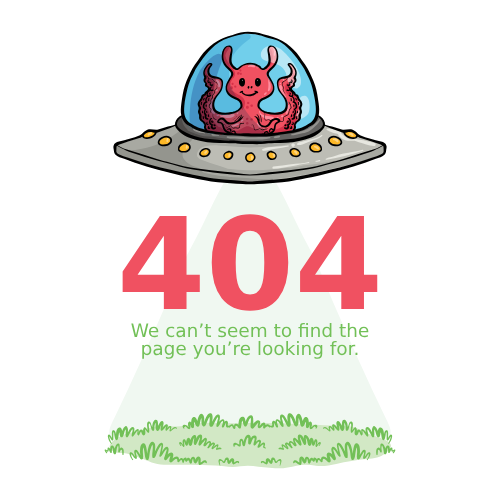
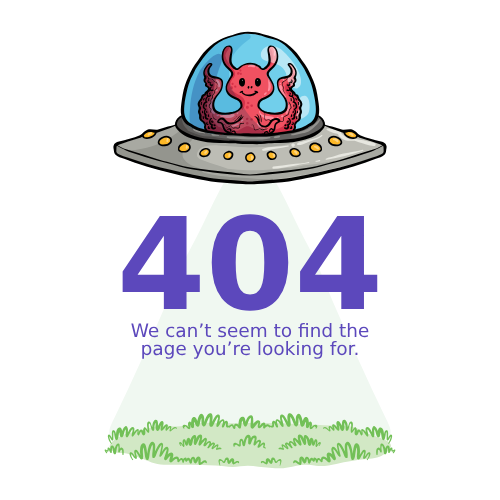
fix: css errorpage

Changed region(s): [[0.24, 0.42, 0.78, 0.72]]

diff --git a/src/pages/ErrorPage/ErrorPage.jsx b/src/pages/ErrorPage/ErrorPage.jsx
@@ -8,11 +8,13 @@ const ErrorPage = () => {
       <div className="container flex flex-col items-center justify-center px-5 mx-auto my-8">
         <img className="w-1/3" src={ErrorImage} alt="" />
         <div className="max-w-md text-center">
-          <p className="text-2xl font-semibold md:text-3xl mb-8">
+          <p className="text-2xl font-semibold md:text-3xl mb-8 text-[#5C48BC]">
             {error?.message}
           </p>
-          <Link to="/" className="btn border-none font-semibold p-3 rounded-lg">
-            Back to homepage
+          <Link to="/">
+            <button className="p-3 font-semibold  rounded-lg shadow-md">
+              Back to homepage
+            </button>
           </Link>
         </div>
       </div>

diff --git a/src/pages/Home/Home.jsx b/src/pages/Home/Home.jsx
@@ -1,17 +1,10 @@
 import { Link } from "react-router-dom";
+import Banner from "../../components/Banner/Banner";
 
 const Home = () => {
   return (
     <div>
-      <h1 className="text-3xl font-bold">
-        Welcome to the Time Link - A Browser Based Online Escape Game
-      </h1>
-      <p>
-        You just need to solve the riddle to progress throughout the game. Each
-        time you answer correctly, you will be rewarded and progress to the next
-        stage. Happy Gaming :)
-      </p>
-
+      <Banner></Banner>
       <div className="flex w-full">
         {/* Login */}
         <div className="card bg-[#f9ff87] rounded-box grid h-20 flex-grow place-items-center shadow-md">

diff --git a/src/index.css b/src/index.css
@@ -10,18 +10,18 @@
   /* #5C48BC purple-text */
 }
 
+body {
+  font-family: "Righteous", "Gill Sans", "Gill Sans MT", Calibri, "Trebuchet MS",
+    sans-serif;
+  color: #5c48bc;
+}
+
 h1 {
   font-family: "Paytone One", "Gill Sans", "Gill Sans MT", Calibri,
     "Trebuchet MS", sans-serif;
   -webkit-text-fill-color: #f7ff66;
   -webkit-text-stroke-color: #5c48bc;
   -webkit-text-stroke-width: 0.2pt;
-}
-
-body {
-  font-family: "Righteous", "Gill Sans", "Gill Sans MT", Calibri, "Trebuchet MS",
-    sans-serif;
-  color: #5c48bc;
 }
 
 input,

diff --git a/src/components/Banner/Banner.jsx b/src/components/Banner/Banner.jsx
@@ -1,5 +1,16 @@
 const Banner = () => {
-  return <div></div>;
+  return (
+    <div className="my-5">
+      <h3 className="text-3xl font-bold">
+        Welcome to the Time Link - A Browser Based Online Escape Game
+      </h3>
+      <p>
+        You just need to solve the riddle to progress throughout the game. Each
+        time you answer correctly, you will be rewarded and progress to the next
+        stage. Happy Gaming :)
+      </p>
+    </div>
+  );
 };
 
 export default Banner;

diff --git a/src/components/NavBar/NavBar.jsx b/src/components/NavBar/NavBar.jsx
@@ -1,11 +1,12 @@
 import logo from "../../assets/logo.png";
+import "./NavBar.css";
 
 const NavBar = () => {
   return (
     <nav className="bg-[#D4F9CF]">
       <div className="flex items-center gap-2 p-3">
         <img className="max-w-7" src={logo} alt="TimeLink Logo" />
-        <h1 className="text-5xl stroke-2 stroke-[#5c48bc]">TimeLink</h1>
+        <h1 className="text-5xl">TimeLink</h1>
       </div>
     </nav>
   );

diff --git a/src/components/NavBar/NavBar.css b/src/components/NavBar/NavBar.css
@@ -1,0 +1,5 @@
+h1 {
+  -webkit-text-fill-color: #f7ff66;
+  -webkit-text-stroke-color: #5c48bc;
+  -webkit-text-stroke-width: 0.2pt;
+}
